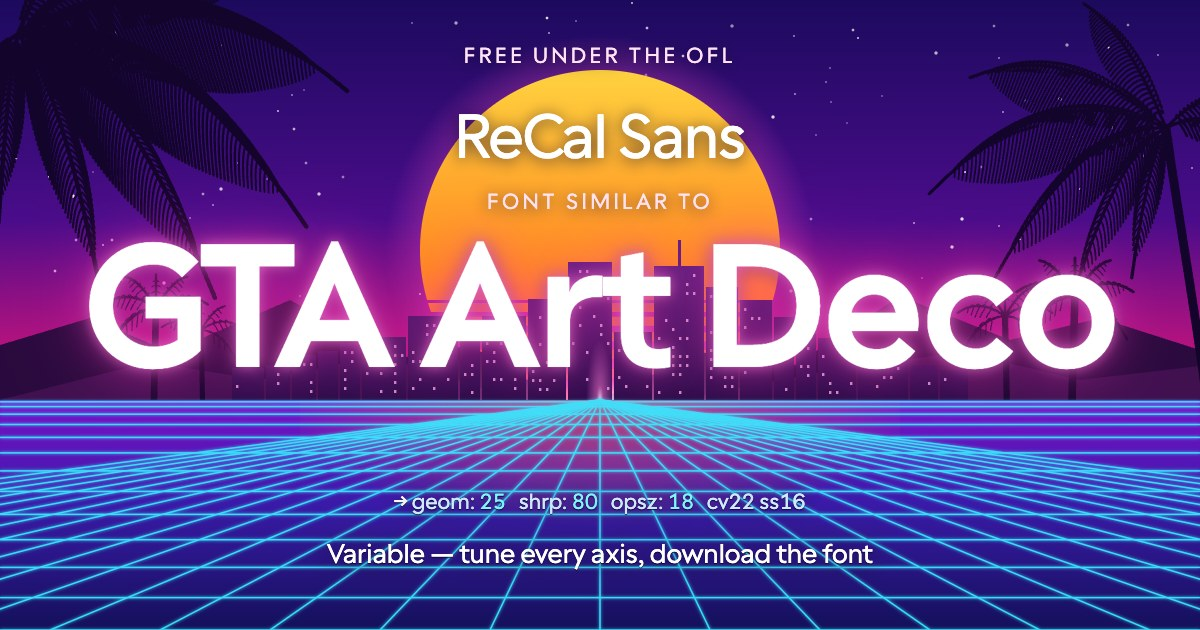
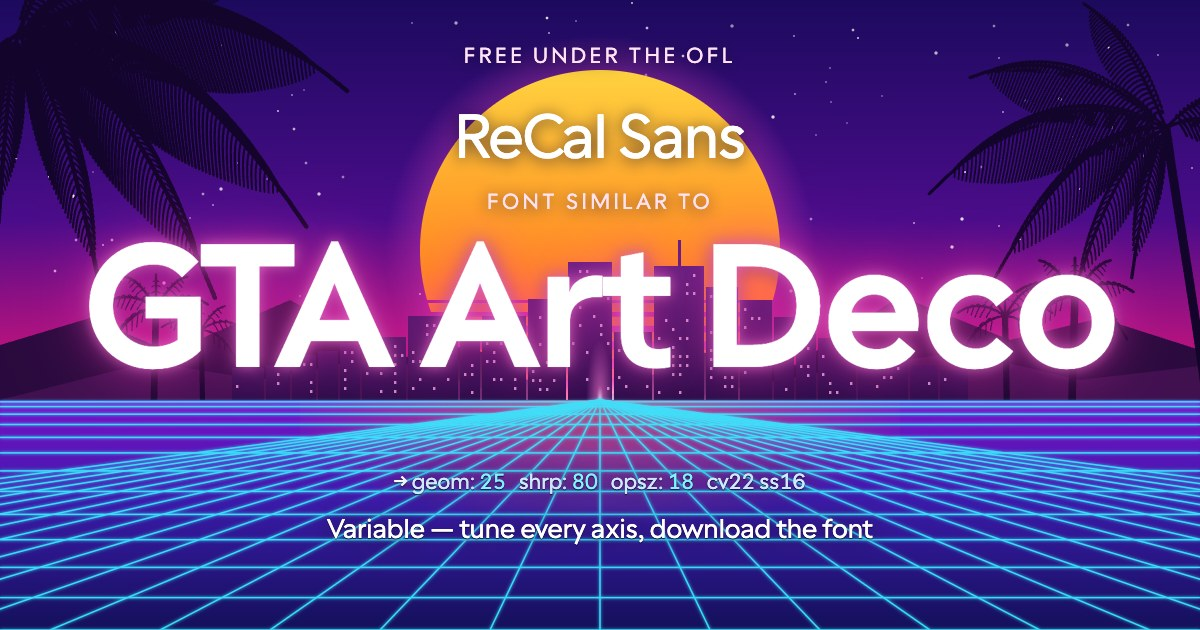
deploy: update recalsans

Changed region(s): [[0.2775, 0.754, 0.74, 0.9048]]

diff --git a/recalsans/og/gta-art-deco.source.html b/recalsans/og/gta-art-deco.source.html
@@ -19,12 +19,12 @@ html,body{margin:0;width:1200px;height:630px;overflow:hidden;background:#1c0a5e}
   font-variation-settings:'GEOM' 25,'SHRP' 80,'opsz' 18;
   /* the one effect on the card: a neon glow on the referent */
   text-shadow:0 0 14px rgba(255,120,220,.75),0 0 38px rgba(255,60,190,.55),0 0 80px rgba(255,40,170,.35),0 3px 18px rgba(10,4,40,.6)}
-.axes{top:490px;font-size:21px;font-variant-numeric:tabular-nums;font-variation-settings:'GEOM' 25,'SHRP' 80,'opsz' 18}
+.axes{top:470px;font-size:21px;font-variant-numeric:tabular-nums;font-variation-settings:'GEOM' 25,'SHRP' 80,'opsz' 18}
 /* the two lines on the grid: a teeny drop plus a wide, faint spread, so the cyan lines stop cutting the strokes */
 .axes,.foot{text-shadow:0 1px 1px rgba(10,4,40,.55),0 0 22px rgba(10,4,40,.38),0 0 44px rgba(10,4,40,.22)}
 .axes,.foot{text-shadow:0 1px 1px rgba(10,4,40,.75),0 0 22px rgba(10,4,40,.62),0 0 46px rgba(10,4,40,.42)}
 .axes .k{color:#cfe9ff}.axes .v{color:#7ff6ff}
-.foot{top:540px;font-size:26px;color:#fff;font-variation-settings:'GEOM' 25,'SHRP' 80,'opsz' 18}
+.foot{top:515px;font-size:26px;color:#fff;font-variation-settings:'GEOM' 25,'SHRP' 80,'opsz' 18}
 </style></head><body><svg class="scene" viewBox="0 0 1200 630" width="1200" height="630" aria-hidden="true">
 <defs>
  <linearGradient id="sky" x1="0" y1="0" x2="0" y2="1"><stop offset="0" stop-color="#1c0a5e"/><stop offset=".55" stop-color="#4a0c8a"/><stop offset=".85" stop-color="#b0127f"/><stop offset="1" stop-color="#e3138f"/></linearGradient>
